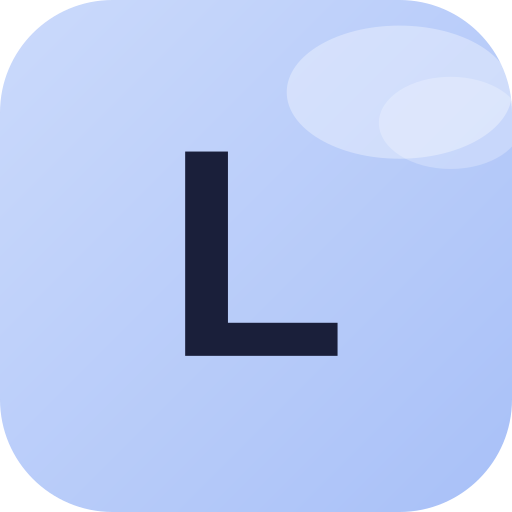
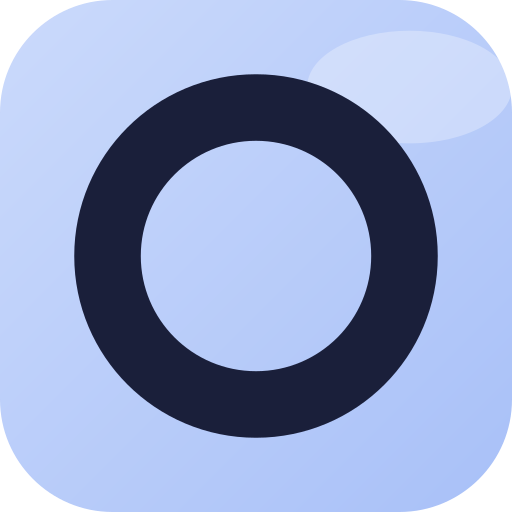
feat: 5 UI refinements
1. Analyse aus Bottom-Navigation entfernt (4 Punkte statt 5)
2. CTA umbenannt in 'Betreuungswunsch für weiteren Vertrag'
3. Status 'Prüfen' entfernt – nur noch Optimal/Gut/Mangelhaft
4. LOYAGO-Header nicht mehr sticky – scrollt nicht mit
5. App-Icon: bold O-Ring statt L-Lettermark

https://claude.ai/code/session_01BYbAXREo1LCLtrkAxH2KQW

Changed region(s): [[0.125, 0.125, 1.0, 0.875]]

diff --git a/src/App.tsx b/src/App.tsx
@@ -6,7 +6,6 @@ import HeroSection from "./components/HeroSection";
 import WalletView from "./components/WalletView";
 import ContractDetail from "./components/ContractDetail";
 import ExpertChat from "./components/ExpertChat";
-import AnalysisView from "./components/AnalysisView";
 import OnboardingFlow from "./components/OnboardingFlow";
 import BottomNav, { type Tab } from "./components/BottomNav";
 import FloatingActions from "./components/FloatingActions";
@@ -72,7 +71,7 @@ export default function App() {
             </div>
             <div className="flex-1 text-left">
               <p className="text-sm font-bold" style={{ color: "#1a1f3a" }}>
-                Verträge von LOYAGO betreuen lassen
+                Betreuungswunsch für weiteren Vertrag
               </p>
               <p className="text-xs mt-0.5" style={{ color: "#3d4a6a" }}>
                 Kostenlos & unverbindlich · Dauert 3 Minuten
@@ -95,7 +94,7 @@ export default function App() {
       </div>
     ),
     wallet: (
-      <div className="px-4 pt-6 pb-32">
+      <div className="px-4 pt-12 pb-32">
         <div className="mb-5">
           <h2 className="text-xl font-bold" style={{ color: "#1a1f3a" }}>
             Meine Verträge
@@ -107,21 +106,8 @@ export default function App() {
         <WalletView onSelectContract={handleSelectContract} onAddContract={handleOpenOnboarding} />
       </div>
     ),
-    analysis: (
-      <div className="px-4 pt-6 pb-32">
-        <div className="mb-5">
-          <h2 className="text-xl font-bold" style={{ color: "#1a1f3a" }}>
-            Analyse
-          </h2>
-          <p className="text-sm mt-1" style={{ color: "#94a3b8" }}>
-            Ihr Versicherungsüberblick
-          </p>
-        </div>
-        <AnalysisView />
-      </div>
-    ),
     more: (
-      <div className="px-4 pt-6 pb-32">
+      <div className="px-4 pt-12 pb-32">
         <div className="mb-5">
           <h2 className="text-xl font-bold" style={{ color: "#1a1f3a" }}>
             Mehr
@@ -157,45 +143,23 @@ export default function App() {
       className="relative mx-auto"
       style={{ maxWidth: "430px", minHeight: "100svh", background: "#f4f8fe" }}
     >
-      {/* Top bar (only on main screen) */}
-      {screen === "main" && (
-        <div
-          className="flex items-center justify-between px-4 pt-12 pb-3 sticky top-0 z-20"
-          style={{
-            background: tab === "home" ? "transparent" : "rgba(244,248,254,0.92)",
-            backdropFilter: tab === "home" ? "none" : "blur(12px)",
-          }}
-        >
-          {/* LOYAGO wordmark */}
-          <div className="flex items-center">
-            <span
-              className="font-black tracking-tight"
-              style={{ fontSize: "22px", color: "#1a1f3a", letterSpacing: "-0.5px" }}
-            >
-              LOYAGO
-            </span>
-          </div>
+      {/* Top bar — non-sticky, only on non-home tabs */}
+      {screen === "main" && tab !== "home" && (
+        <div className="flex items-center justify-between px-4 pt-12 pb-3">
+          <span
+            className="font-black tracking-tight"
+            style={{ fontSize: "22px", color: "#1a1f3a", letterSpacing: "-0.5px" }}
+          >
+            LOYAGO
+          </span>
           <button
             className="relative flex items-center justify-center rounded-xl"
-            style={{
-              width: 38,
-              height: 38,
-              background: "white",
-              boxShadow: "0 1px 3px rgba(0,0,0,0.08)",
-            }}
+            style={{ width: 38, height: 38, background: "white", boxShadow: "0 1px 3px rgba(0,0,0,0.08)" }}
           >
             <Bell size={17} style={{ color: "#1a1f3a" }} />
-            {/* Notification dot */}
             <span
               className="absolute rounded-full"
-              style={{
-                width: 8,
-                height: 8,
-                background: "#ef4444",
-                top: 8,
-                right: 9,
-                border: "1.5px solid white",
-              }}
+              style={{ width: 8, height: 8, background: "#ef4444", top: 8, right: 9, border: "1.5px solid white" }}
             />
           </button>
         </div>
@@ -210,7 +174,6 @@ export default function App() {
             animate={{ opacity: 1, y: 0 }}
             exit={{ opacity: 0, y: -8 }}
             transition={{ duration: 0.2 }}
-            style={{ marginTop: tab === "home" ? "-64px" : 0 }}
           >
             {tabContent[tab as keyof typeof tabContent]}
           </motion.div>
@@ -250,13 +213,10 @@ export default function App() {
 
       {/* Bottom nav */}
       {screen === "main" && (
-        <BottomNav
-          active={tab}
-          onChange={handleTabChange}
-        />
+        <BottomNav active={tab} onChange={handleTabChange} />
       )}
 
-      {/* Floating action button (only on main screen) */}
+      {/* Floating action button */}
       {screen === "main" && (
         <FloatingActions
           onChat={() => setScreen("chat")}
@@ -264,7 +224,6 @@ export default function App() {
         />
       )}
 
-      {/* Call modal */}
       <CallModal isOpen={callModalOpen} onClose={() => setCallModalOpen(false)} />
     </div>
   );

diff --git a/src/data/contracts.ts b/src/data/contracts.ts
@@ -1,4 +1,4 @@
-export type ContractStatus = "optimal" | "gut" | "mangelhaft" | "pruefen";
+export type ContractStatus = "optimal" | "gut" | "mangelhaft";
 
 export interface Contract {
   id: string;
@@ -112,7 +112,7 @@ export const contracts: Contract[] = [
     categoryIcon: "plane",
     monthlyPremium: 4.50,
     annualPremium: 54,
-    status: "pruefen",
+    status: "gut",
     policyNumber: "ADAC-RK-2024-99123",
     startDate: "01.01.2024",
     renewalDate: "01.01.2026",
@@ -127,12 +127,10 @@ export const statusLabels: Record<ContractStatus, string> = {
   optimal: "OPTIMAL",
   gut: "GUT",
   mangelhaft: "MANGELHAFT",
-  pruefen: "PRÜFEN",
 };
 
 export const statusColors: Record<ContractStatus, { bg: string; text: string; dot: string }> = {
   optimal: { bg: "#dcfce7", text: "#16a34a", dot: "#22c55e" },
   gut: { bg: "#dbeafe", text: "#1d4ed8", dot: "#3b82f6" },
   mangelhaft: { bg: "#fee2e2", text: "#dc2626", dot: "#ef4444" },
-  pruefen: { bg: "#fef3c7", text: "#d97706", dot: "#f59e0b" },
 };

diff --git a/src/components/BottomNav.tsx b/src/components/BottomNav.tsx
@@ -1,7 +1,7 @@
 import { motion } from "framer-motion";
-import { Home, Wallet, BarChart2, MessageCircle, Menu, type LucideProps } from "lucide-react";
+import { Home, Wallet, MessageCircle, Menu, type LucideProps } from "lucide-react";
 
-export type Tab = "home" | "wallet" | "analysis" | "expert" | "more";
+export type Tab = "home" | "wallet" | "expert" | "more";
 
 interface BottomNavProps {
   active: Tab;
@@ -11,7 +11,6 @@ interface BottomNavProps {
 const items: { tab: Tab; icon: React.FC<LucideProps>; label: string }[] = [
   { tab: "home", icon: Home, label: "Start" },
   { tab: "wallet", icon: Wallet, label: "Verträge" },
-  { tab: "analysis", icon: BarChart2, label: "Analyse" },
   { tab: "expert", icon: MessageCircle, label: "Experte" },
   { tab: "more", icon: Menu, label: "Mehr" },
 ];

diff --git a/src/components/WalletView.tsx b/src/components/WalletView.tsx
@@ -14,7 +14,6 @@ const filters: { label: string; value: ContractStatus | "all" }[] = [
   { label: "Optimal", value: "optimal" },
   { label: "Gut", value: "gut" },
   { label: "Mangelhaft", value: "mangelhaft" },
-  { label: "Prüfen", value: "pruefen" },
 ];
 
 export default function WalletView({ onSelectContract, onAddContract }: WalletViewProps) {
@@ -121,7 +120,7 @@ export default function WalletView({ onSelectContract, onAddContract }: WalletVi
           border: "none",
         }}
       >
-        + Betreuungswunsch einrichten
+        + Betreuungswunsch für weiteren Vertrag
       </motion.button>
     </div>
   );

diff --git a/src/components/HeroSection.tsx b/src/components/HeroSection.tsx
@@ -7,9 +7,7 @@ export default function HeroSection() {
   const totalMonthly = contracts.reduce((s, c) => s + c.monthlyPremium, 0);
   const totalAnnual = contracts.reduce((s, c) => s + c.annualPremium, 0);
   const optimalCount = contracts.filter((c) => c.status === "optimal" || c.status === "gut").length;
-  const issueCount = contracts.filter(
-    (c) => c.status === "mangelhaft" || c.status === "pruefen"
-  ).length;
+  const issueCount = contracts.filter((c) => c.status === "mangelhaft").length;
 
   const coverageScore = Math.round((optimalCount / contracts.length) * 100);
 
